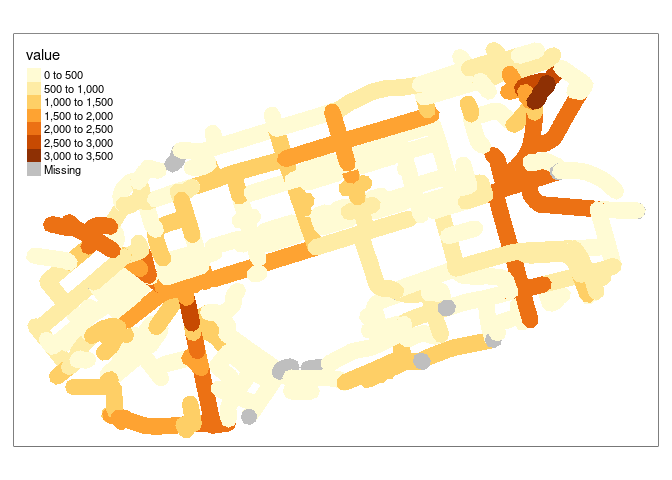
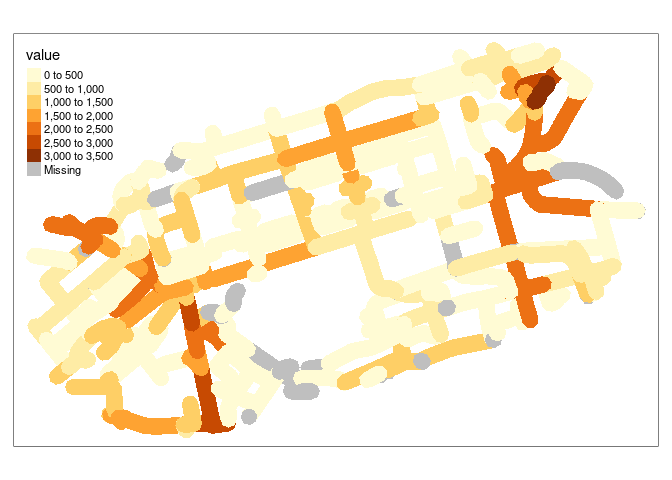
Update with better results..

diff --git a/merge.md b/merge.md
@@ -71,14 +71,8 @@ args(stplanr::rnet_join)
 ``` r
 input_simple_id = input_simple |>
   select(identifier)
-rnet_joined = stplanr::rnet_join(input_simple_id, input_complex, dist = 30)
+rnet_joined = stplanr::rnet_join(input_simple_id, input_complex, dist = 30, split_y = FALSE)
 ```
-
-    Warning: attribute variables are assumed to be spatially constant throughout
-    all geometries
-
-    Warning in st_cast.sf(sf::st_cast(x, "MULTILINESTRING"), "LINESTRING"):
-    repeating attributes for all sub-geometries for which they may not be constant
 
     Warning: attribute variables are assumed to be spatially constant throughout
     all geometries
@@ -90,32 +84,31 @@ rnet_joined = stplanr::rnet_join(input_simple_id, input_complex, dist = 30)
 rnet_joined
 ```
 
-    Simple feature collection with 5236 features and 7 fields
+    Simple feature collection with 4546 features and 6 fields
     Geometry type: POLYGON
     Dimension:     XY
     Bounding box:  xmin: -3.216283 ymin: 55.94534 xmax: -3.180377 ymax: 55.95821
     Geodetic CRS:  WGS 84
-    # A tibble: 5,236 × 8
-       identifier                              geometry value Quietness length index
-     * <chr>                              <POLYGON [°]> <dbl>     <dbl>  <dbl> <int>
-     1 93FE6E2B-7E51-4D3D-82… ((-3.182028 55.95153, -3…   333        90   72.8   829
-     2 580841F5-EA4A-44E5-8E… ((-3.180399 55.95281, -3…    NA        NA   NA      NA
-     3 E476FD90-AAF5-4779-AB… ((-3.180796 55.95246, -3…    NA        NA   NA      NA
-     4 5C9AC265-0B3C-4176-95… ((-3.183044 55.95304, -3…     3        80   40.6   304
-     5 5C9AC265-0B3C-4176-95… ((-3.183044 55.95304, -3…    31        60   10.0   395
-     6 5C9AC265-0B3C-4176-95… ((-3.183044 55.95304, -3…    40        80  103.    440
-     7 8E06C42A-AB3E-49E5-B6… ((-3.182967 55.95345, -3…   108        40  222.    603
-     8 01C917BA-9BD2-4502-A4… ((-3.185653 55.95011, -3…    95        80   74.9   590
-     9 01C917BA-9BD2-4502-A4… ((-3.185653 55.95011, -3…   211        60   20.2   746
-    10 F90031B2-58A3-4B2C-95… ((-3.18592 55.94999, -3.…     3        60   37.4   238
-    # ℹ 5,226 more rows
-    # ℹ 2 more variables: length_osm_cast <dbl>, length_y <dbl>
+    # A tibble: 4,546 × 7
+       identifier                     geometry value Quietness length index length_y
+     * <chr>                     <POLYGON [°]> <dbl>     <dbl>  <dbl> <int>    <dbl>
+     1 93FE6E2B-7E5… ((-3.182028 55.95153, -3…   333        90   72.8   829     72.7
+     2 580841F5-EA4… ((-3.180399 55.95281, -3…    NA        NA   NA      NA     NA  
+     3 E476FD90-AAF… ((-3.180796 55.95246, -3…    NA        NA   NA      NA     NA  
+     4 5C9AC265-0B3… ((-3.183044 55.95304, -3…     3        80   40.6   304     40.5
+     5 5C9AC265-0B3… ((-3.183044 55.95304, -3…    31        60   10.0   395     10.0
+     6 5C9AC265-0B3… ((-3.183044 55.95304, -3…    40        80  103.    440    103. 
+     7 8E06C42A-AB3… ((-3.182967 55.95345, -3…    NA        NA   NA      NA     NA  
+     8 01C917BA-9BD… ((-3.185653 55.95011, -3…    95        80   74.9   590     74.8
+     9 01C917BA-9BD… ((-3.185653 55.95011, -3…   211        60   20.2   746     20.2
+    10 F90031B2-58A… ((-3.18592 55.94999, -3.…     3        60   37.4   238     37.3
+    # ℹ 4,536 more rows
 
 ``` r
 nrow(rnet_joined)
 ```
 
-    [1] 5236
+    [1] 4546
 
 ``` r
 nrow(input_simple)
@@ -127,8 +120,8 @@ nrow(input_simple)
 names(rnet_joined)
 ```
 
-    [1] "identifier"      "geometry"        "value"           "Quietness"      
-    [5] "length"          "index"           "length_osm_cast" "length_y"       
+    [1] "identifier" "geometry"   "value"      "Quietness"  "length"    
+    [6] "index"      "length_y"  
 
 The overlapping network values are as follows:
 
@@ -177,7 +170,7 @@ message("Total flow input: ", total_flow_input, "km")
 message("Total flow output: ", total_flow_output, "km")
 ```
 
-    Total flow output: 79553km
+    Total flow output: 86373km
 
 ``` r
 summary(input_simple_joined$flow)
@@ -187,16 +180,6 @@ summary(input_simple_joined$flow)
 
     Length  Class   Mode 
          0   NULL   NULL 
-
-``` r
-m1 = tm_shape(input_complex) + tm_lines("value", palette = "viridis", lwd = 5, breaks = brks)
-m2 = tm_shape(input_simple_joined) + tm_lines("value", palette = "viridis", lwd = 5, breaks = brks)
-tmap_arrange(m1, m2, nrow = 1)
-```
-
-    Warning: Values have found that are higher than the highest break
-
-![](merge_files/figure-commonmark/joined-1.png)
 
 We can adjust the values of the new network so that the total distance
 travelled is the same:
@@ -208,6 +191,16 @@ input_simple_joined = input_simple_joined |>
 ```
 
 The updated result is as follows:
+
+``` r
+m1 = tm_shape(input_complex) + tm_lines("value", palette = "viridis", lwd = 5, breaks = brks)
+m2 = tm_shape(input_simple_joined) + tm_lines("value", palette = "viridis", lwd = 5, breaks = brks)
+tmap_arrange(m1, m2, nrow = 1)
+```
+
+    Warning: Values have found that are higher than the highest break
+
+![](merge_files/figure-commonmark/unnamed-chunk-13-1.png)
 
 ``` r
 total_flow_output = round(sum(input_simple_joined$value * as.numeric(sf::st_length((input_simple_joined))), na.rm = TRUE) / 1000)
@@ -324,11 +317,11 @@ tm_shape(rnet_x_buffer) + tm_fill("identifier") + tm_shape(rnet_y) + tm_lines()
 
 ![](merge_files/figure-commonmark/rnet-x-y-minimal-1.png)
 
-The next step is to split the lines in `rnet_y` at the points where they
-intersect with `rnet_x_buffer`:
+An optional next step is to split the lines in `rnet_y` at the points
+where they intersect with `rnet_x_buffer`:
 
 ``` r
-rnet_y_split = rnet_split_lines(rnet_y, rnet_x_buffer, dist = dist)
+rnet_y_split = rnet_split_lines(rnet_y, rnet_x, dist = dist)
 ```
 
     Warning: attribute variables are assumed to be spatially constant throughout
@@ -343,25 +336,30 @@ The resulting `rnet_y_split` object is as follows:
 rnet_y_split
 ```
 
-    Simple feature collection with 23 features and 5 fields
+    Simple feature collection with 16 features and 5 fields
     Geometry type: LINESTRING
     Dimension:     XY
-    Bounding box:  xmin: -3.20592 ymin: 55.95036 xmax: -3.19669 ymax: 55.95206
+    Bounding box:  xmin: -3.205492 ymin: 55.95045 xmax: -3.19678 ymax: 55.95198
     Geodetic CRS:  WGS 84
-    # A tibble: 23 × 6
+    # A tibble: 16 × 6
        value Quietness length index                         geometry length_osm_cast
      * <dbl>     <dbl>  <dbl> <int>                 <LINESTRING [°]>           <dbl>
-     1     0        50  10.6      8 (-3.205647 55.9505, -3.20564 55…            9.48
-     2     0        40   9.52   107 (-3.2027 55.95092, -3.20266 55.…            9.51
-     3     3        95  32.6    206 (-3.19727 55.95184, -3.19706 55…           32.5 
-     4    32        50  88.1    403 (-3.20409 55.95078, -3.20274 55…           87.9 
-     5    32        40  10.4    406 (-3.20274 55.95101, -3.20273 55…           10.4 
-     6    36        50 102.     413 (-3.205627 55.95051, -3.20409 5…          100.  
-     7   122        50  10.3    631 (-3.19717 55.95191, -3.19709 55…           10.3 
-     8   122        50   6.96   632 (-3.1972 55.95197, -3.19719 55.…            6.95
-     9   147        60  15.1    709 (-3.20592 55.95036, -3.20585 55…            8.80
-    10   357        50  14.3    840 (-3.19727 55.95184, -3.19706 55…           14.2 
-    # ℹ 13 more rows
+     1     0        40   9.52   107 (-3.2027 55.95092, -3.20266 55.…            9.51
+     2     3        95  32.6    206 (-3.19727 55.95184, -3.19706 55…           32.5 
+     3    32        50  88.1    403 (-3.20409 55.95078, -3.20274 55…           87.9 
+     4    32        40  10.4    406 (-3.20274 55.95101, -3.20273 55…           10.4 
+     5    36        50 102.     413 (-3.205492 55.95054, -3.20409 5…           91.3 
+     6   122        50  10.3    631 (-3.19717 55.95191, -3.197136 5…            2.30
+     7   122        50   6.96   632 (-3.1972 55.95197, -3.19719 55.…            6.95
+     8   357        50  14.3    840 (-3.19727 55.95184, -3.197101 5…           11.4 
+     9   366        50 143.     849 (-3.199024 55.95155, -3.19828 5…          114.  
+    10   600        50  33.4    925 (-3.1972 55.95197, -3.197166 55…            2.24
+    11   722        50 152.     959 (-3.199066 55.95164, -3.19848 5…          122.  
+    12   766         1 190.     966 (-3.205438 55.95045, -3.20537 5…          178.  
+    13   798         1 211.     968 (-3.2027 55.95092, -3.199923 55…          181.  
+    14   871        70  23.3    989 (-3.19678 55.95174, -3.19679 55…            2.02
+    15  1581        50 211.    1094 (-3.20274 55.95101, -3.20016 55…          180.  
+    16  1602        50 190.    1095 (-3.205492 55.95054, -3.20274 5…          179.  
 
 ``` r
 rnet_y
@@ -393,33 +391,16 @@ m2 = tm_shape(rnet_y_split) + tm_lines()
 tmap_arrange(m1, m2, nrow = 1)
 ```
 
-![](merge_files/figure-commonmark/unnamed-chunk-19-1.png)
+![](merge_files/figure-commonmark/line-split-1.png)
 
-
-    ::: {.cell}
-
-    :::
-
-
-    ::: {.cell}
-
-    :::
-
-    ::: {.cell}
-
-    ```{.r .cell-code}
-    m = tm_shape(input_simple_minimal) + tm_lines(lwd = 5) +
-      qtm(input_simple)
-    tmap_save(m, "maps/m_explanation.html")
-
-<div class="cell-output cell-output-stderr">
+``` r
+m = tm_shape(input_simple_minimal) + tm_lines(lwd = 5) +
+  qtm(input_simple)
+tmap_save(m, "maps/m_explanation.html")
+```
 
     Interactive map saved to maps/m_explanation.html
-
-</div>
 
 ``` r
 # browseURL("maps/m_explanation.html")
 ```
-
-:::
